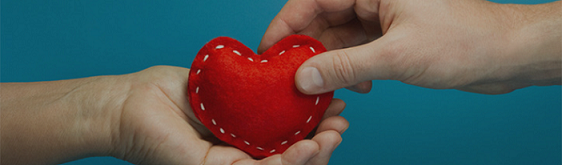
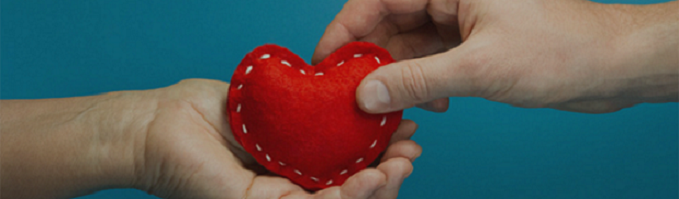
'Harem'

diff --git a/MainPageP.html b/MainPageP.html
@@ -21,16 +21,16 @@
         <img src="imgLogo2.png">
         <ul class="navbar-nav ml-auto">
           <li class="nav-item ">
-            <a class="nav-link text-muted" href="#menu">Home</a>
+            <a class="nav-link text-white" href="#menu"><h5>Home</h5></a>
           </li>
           <li class="nav-item  ">
-            <a class="nav-link text-muted" href="#topico1">Doação</a>
+            <a class="nav-link text-white" href="#topico1"><h5>Doações</h5></a>
           </li>
           <li class="nav-item  ">
-            <a class="nav-link text-muted" href="#">|</a>
+            <a class="nav-link text-white" href="#"><h5>|</h5></a>
           </li>
           <li class="nav-item">
-            <a class="nav-link text-muted" href="MainPageSP.html">Logout</a>
+            <a class="nav-link text-white" href="/login"><h5>Login</h5></a>
           </li>
         </ul>
     
@@ -79,7 +79,7 @@
   </div> 
 
   <!--fim do slide-->
-  <br><br><br>
+  <br><br><br><br><br> <br>
 
   <!--menu-->
   <!--nome do menu-->
@@ -144,9 +144,9 @@
 
       <div class="container-fluid text-center" >
         <h5>Pedro Henrique</h5>
-        <h7>Seu perfil é importante para nós</h7><br>
-        <h7>matenha ele atualizado.</h7><br>
-        <h7>Você pode fazer a diferença!</h7><br>
+        <h6>Seu perfil é importante para nós<br>
+        matenha ele atualizado.<br>
+        Você pode fazer a diferença!</h6><br>
       </div>
 
     </div>
@@ -154,9 +154,9 @@
     <div class="col">
       
       <div class="container-fluid text-center" >
-        <h7>Mais de 35 mil pessoas em todo o Brasil estão na fila para transplante de órgãos.
-        </h7><br><h7>Além disso, 23,4% das pessoas não confia no sistema de saúde ,mesmo ele tendo os preparos
-        necessários para realizar tal ação.</h7><br>
+        <h6>Mais de 35 mil pessoas em todo o Brasil estão na <br>fila para transplante de órgãos.
+        Além disso, 23,4% das pessoas não confia no sistema de<br> saúde, mesmo ele tendo os preparos<br>
+        necessários para realizar tal ação.</h6><br>
        
       </div>
 
@@ -165,9 +165,9 @@
     <div class="col">
       
       <div class="container-fluid text-center" >
-        <h7>Já pensou quão bom seria se você colaborasse para salvar cerca de 12 vidas a cada ano?
-          É muito provável que a sensação de dever cumprido faria ainda mais parte da sua rotina. 
-          E, sabe? Você tem essa chance doando sangue!</h7><br>
+        <h6>Já pensou quão bom seria se você colaborasse para <br>salvar cerca de 12 vidas a cada ano?
+          <br>É muito provável que a sensação de dever cumprido<br>  faria ainda mais parte da sua rotina.<br>
+          E, sabe? Você tem essa chance doando sangue!</h6><br>
       </div>
 
     </div>
@@ -181,16 +181,12 @@
   <!--botao-->
   <br><br>
   <div class="row">
-    <div class="col">
-
-      
-
-    </div>
+    <div class="col"></div>
     
     <div class="col">
       
       <div class="container-fluid text-center" >
-        <a href="#topico1" class="btn text-light" role="button">Quero Doar!</a>  
+        <a href="#topico1" class="btn text-light " role="button">Quero Doar!</a>  
       </div>
 
     </div>
@@ -198,7 +194,7 @@
     <div class="col">
       
       <div class="container-fluid text-center" >
-        <a href="#topico2" class="btn text-light" role="button">Quero Doar!</a>
+        <a href="#topico2" class="btn text-light " role="button">Quero Doar!</a>
       </div>
 
     </div>
@@ -212,13 +208,13 @@
   <!--fim do menu-->
 
   <!--Topico1-->
-  <br><br><br><br><br>
+  <br><br><br><br><br><br><br><br><br><br>
     
 
   <!--marcador-->
     <div class="row">
       <div class="col-sm-3" id="topico1">
-        <div class="container p-2 my-3 border text-right"><h4 class="text-light">Doação de órgãos</h4></div>
+        <div class="container p-2 my-3 border text-right"><h2 class="text-light">Doação de órgãos</h2></div>
       </div>
       <div class="col">
       </div>
@@ -234,8 +230,10 @@
       <div class="container-fluid text-center">
 
         <p>
+          <h6>
           Doação de órgãos e tecidos consiste na remoção dos mesmos do corpo de uma pessoa que recentemente morreu (doador cadáver) ou de um doador voluntário (doador vivo), com o propósito de transplantá-lo ou fazer um enxerto em outras pessoas vivas. Os órgãos e tecidos são removidos com procedimentos similares a uma cirurgia, e todas as incisões (cortes) são fechadas após a conclusão da cirurgia. Estes procedimentos são realizados para que a pessoa em seu funeral não seja reconhecida como uma doadora por apresentar deformações e cortes visíveis. Pessoas de todas as idades podem ser doadores de órgãos e tecidos.
           No mundo inteiro há uma grande falta de doadores e isso faz com que surja grandes listas de espera. Muitos pacientes que esperam um coração, um fígado ou um pulmão morrem, pois não há nenhum órgão à disposição.
+          </h6>
         </p>
 
       </div>
@@ -278,7 +276,7 @@
     <div class="col"></div>
     <div class="col-sm-3">
       <div class="container-fluid text-center">
-        <button type="button" class="btn btn-success text-light btn-block">Quero Doar </button>
+        <button type="button" name="botao1" id="botao1" class="btn btn-success text-light btn-block">Quero Doar </button>
       </div>
     </div>
 
@@ -297,7 +295,7 @@
   <!--marcador-->
     <div class="row">
       <div class="col-sm-3" id="topico2">
-        <div class="container p-2 my-3 border text-right"><h4 class="text-light">Doação de sangue</h4></div>
+        <div class="container p-2 my-3 border text-right"><h2 class="text-light">Doação de sangue</h2></div>
       </div>
       <div class="col">
       </div>
@@ -312,10 +310,10 @@
 
       <div class="container-fluid text-center">
 
-        <p>O sangue ainda não pode ser produzido artificialmente. Por isso, é preciso contar com a solidariedade da população para manter os estoques cheios e a qualidade adequada para doações e tratamento de doenças.
+        <p><h6>O sangue ainda não pode ser produzido artificialmente. Por isso, é preciso contar com a solidariedade da população para manter os estoques cheios e a qualidade adequada para doações e tratamento de doenças.
           Diversos pacientes necessitam de doação de sangue, desde pessoas submetidas a cirurgias cardíacas, transplantes de rins, de fígado e de medula óssea até quem se submete à quimioterapia, por exemplo.
           O sangue coletado durante uma doação é denominado de sangue total e é submetido a um processo de centrifugação, que separa seus principais componentes para uso terapêutico: hemácias, plaquetas e plasma. 
-          Cada um destes componentes é utilizado para tratamentos específicos. A Lei 10.205 de 21 de março de 2001 impede que o sangue e quaisquer de seus componentes e derivados sejam comercializados.</p>
+          Cada um destes componentes é utilizado para tratamentos específicos. A Lei 10.205 de 21 de março de 2001 impede que o sangue e quaisquer de seus componentes e derivados sejam comercializados.</h6></p>
 
       </div>
 
@@ -357,7 +355,7 @@
     <div class="col"></div>
     <div class="col-sm-3">
       <div class="container-fluid text-center">
-        <button type="button" class="btn btn-danger text-light btn-block">Quero Doar </button>
+        <button type="button" name="botao2" id="botao2" class="btn btn-danger text-light btn-block">Quero Doar </button>
       </div>
     </div>
 

diff --git a/MainPageSP.html b/MainPageSP.html
@@ -21,16 +21,16 @@
         <img src="imgLogo2.png">
         <ul class="navbar-nav ml-auto">
           <li class="nav-item ">
-            <a class="nav-link text-muted" href="#menu">Home</a>
+            <a class="nav-link text-white" href="#menu"><h5>Home</h5></a>
           </li>
           <li class="nav-item  ">
-            <a class="nav-link text-muted" href="#topico1">Doação</a>
+            <a class="nav-link text-white" href="#topico1"><h5>Doações</h5></a>
           </li>
           <li class="nav-item  ">
-            <a class="nav-link text-muted" href="#">|</a>
+            <a class="nav-link text-white" href="#"><h5>|</h5></a>
           </li>
           <li class="nav-item">
-            <a class="nav-link text-muted" href="Login.html">Login</a>
+            <a class="nav-link text-white" href="/login"><h5>Login</h5></a>
           </li>
         </ul>
     
@@ -138,24 +138,24 @@
   
 
   <!--texto do menu-->
-
+  <br>
   <div class="row">
     <div class="col">
 
       <div class="container-fluid text-center" >
-        <h7>Oh não você não esta logada perfil! </h7><br>
-        <h7>Não se preocupe podemos resolver isso.</h7><br>
-        <h7>Caso você tenha conta <a href="Login.html">logue</a>,<br>se não,<a href="Registro.html">resgistre-se</a>!</h7><br>
+        <h6>Oh não você não esta logada perfil!<br>Não se preocupe podemos resolver isso.<br>
+        Caso você tenha conta <a href="/login">logue</a>,<br>se não,<a href="/register">resgistre-se</a>!</h6><br>
       </div>
 
     </div>
     
+    
     <div class="col">
       
       <div class="container-fluid text-center" >
-        <h7>Mais de 35 mil pessoas em todo o Brasil estão na fila para transplante de órgãos.
-        </h7><br><h7>Além disso, 23,4% das pessoas não confia no sistema de saúde ,mesmo ele tendo os preparos
-        necessários para realizar tal ação.</h7><br>
+        <h6>Mais de 35 mil pessoas em todo o Brasil estão na <br>fila para transplante de órgãos.
+        <br>Além disso, 23,4% das pessoas não confia no sistema de<br> saúde, mesmo ele tendo os preparos<br>
+        necessários para realizar tal ação.</h6><br>
        
       </div>
 
@@ -164,9 +164,9 @@
     <div class="col">
       
       <div class="container-fluid text-center" >
-        <h7>Já pensou quão bom seria se você colaborasse para salvar cerca de 12 vidas a cada ano?
-          É muito provável que a sensação de dever cumprido faria ainda mais parte da sua rotina. 
-          E, sabe? Você tem essa chance doando sangue!</h7><br>
+        <h6>Já pensou quão bom seria se você colaborasse para <br>salvar cerca de 12 vidas a cada ano?
+          <br>É muito provável que a sensação de dever cumprido<br>  faria ainda mais parte da sua rotina.<br>
+          E, sabe? Você tem essa chance doando sangue!</h6><br>
       </div>
 
     </div>
@@ -178,7 +178,7 @@
   <!--fim do texto do menu-->
 
   <!--botao-->
-  <br><br>
+  <br>
   <div class="row">
     <div class="col">
 
@@ -213,13 +213,13 @@
   <!--fim do menu-->
 
   <!--Topico1-->
-  <br><br><br><br><br>
+  <br><br><br><br><br><br><br><br><br><br><br>
     
 
   <!--marcador-->
     <div class="row">
       <div class="col-sm-3" id="topico1">
-        <div class="container p-2 my-3 border text-right"><h4 class="text-light">Doação de órgãos</h4></div>
+        <div class="container p-2 my-3 border text-right"><h3 class="text-light">Doação de órgãos</h3></div>
       </div>
       <div class="col">
       </div>
@@ -234,9 +234,10 @@
 
       <div class="container-fluid text-center">
 
-        <p>
+        <p><h6>
           Doação de órgãos e tecidos consiste na remoção dos mesmos do corpo de uma pessoa que recentemente morreu (doador cadáver) ou de um doador voluntário (doador vivo), com o propósito de transplantá-lo ou fazer um enxerto em outras pessoas vivas. Os órgãos e tecidos são removidos com procedimentos similares a uma cirurgia, e todas as incisões (cortes) são fechadas após a conclusão da cirurgia. Estes procedimentos são realizados para que a pessoa em seu funeral não seja reconhecida como uma doadora por apresentar deformações e cortes visíveis. Pessoas de todas as idades podem ser doadores de órgãos e tecidos.
           No mundo inteiro há uma grande falta de doadores e isso faz com que surja grandes listas de espera. Muitos pacientes que esperam um coração, um fígado ou um pulmão morrem, pois não há nenhum órgão à disposição.
+          </h6>
         </p>
 
       </div>
@@ -298,7 +299,7 @@
   <!--marcador-->
     <div class="row">
       <div class="col-sm-3" id="topico2">
-        <div class="container p-2 my-3 border text-right"><h4 class="text-light">Doação de sangue</h4></div>
+        <div class="container p-2 my-3 border text-right"><h3 class="text-light">Doação de sangue</h3></div>
       </div>
       <div class="col">
       </div>
@@ -313,10 +314,10 @@
 
       <div class="container-fluid text-center">
 
-        <p>O sangue ainda não pode ser produzido artificialmente. Por isso, é preciso contar com a solidariedade da população para manter os estoques cheios e a qualidade adequada para doações e tratamento de doenças.
+        <p><h6>O sangue ainda não pode ser produzido artificialmente. Por isso, é preciso contar com a solidariedade da população para manter os estoques cheios e a qualidade adequada para doações e tratamento de doenças.
           Diversos pacientes necessitam de doação de sangue, desde pessoas submetidas a cirurgias cardíacas, transplantes de rins, de fígado e de medula óssea até quem se submete à quimioterapia, por exemplo.
           O sangue coletado durante uma doação é denominado de sangue total e é submetido a um processo de centrifugação, que separa seus principais componentes para uso terapêutico: hemácias, plaquetas e plasma. 
-          Cada um destes componentes é utilizado para tratamentos específicos. A Lei 10.205 de 21 de março de 2001 impede que o sangue e quaisquer de seus componentes e derivados sejam comercializados.</p>
+          Cada um destes componentes é utilizado para tratamentos específicos. A Lei 10.205 de 21 de março de 2001 impede que o sangue e quaisquer de seus componentes e derivados sejam comercializados.</h6></p>
 
       </div>
 
@@ -366,7 +367,10 @@
   </div>
 
 <!--Topico2-->
-  
+<br> <br> <br>
+<div class="container">
+  <div class="row"></div> 
+</div>
 
 
 </body>

diff --git a/Login.html b/Login.html
@@ -4,6 +4,11 @@
   <title>Formulário de Login e Registro com HTML5 e CSS3</title>
   <meta name="viewport" content="width=device-width, initial-scale=1.0"> 
   <link rel="stylesheet" type="text/css" href="Lstyle.css" />
+  <link rel="stylesheet" href="https://maxcdn.bootstrapcdn.com/bootstrap/4.0.0/css/bootstrap.min.css" integrity="sha384-Gn5384xqQ1aoWXA+058RXPxPg6fy4IWvTNh0E263XmFcJlSAwiGgFAW/dAiS6JXm" crossorigin="anonymous">
+  <script src="https://code.jquery.com/jquery-3.2.1.slim.min.js" integrity="sha384-KJ3o2DKtIkvYIK3UENzmM7KCkRr/rE9/Qpg6aAZGJwFDMVNA/GpGFF93hXpG5KkN" crossorigin="anonymous"></script>
+  <script src="https://cdnjs.cloudflare.com/ajax/libs/popper.js/1.12.9/umd/popper.min.js" integrity="sha384-ApNbgh9B+Y1QKtv3Rn7W3mgPxhU9K/ScQsAP7hUibX39j7fakFPskvXusvfa0b4Q" crossorigin="anonymous"></script>
+  <script src="https://maxcdn.bootstrapcdn.com/bootstrap/4.0.0/js/bootstrap.min.js" integrity="sha384-JZR6Spejh4U02d8jOt6vLEHfe/JQGiRRSQQxSfFWpi1MquVdAyjUar5+76PVCmYl" crossorigin="anonymous"></script>
+
   
 </head>
 <body>
@@ -14,12 +19,12 @@
     <div class="content">      
       <center>
         <!--FORMULÁRIO DE LOGIN-->
-      <div id="login">
+      <div id="login" class="login">
         <form method="POST" action="/login"> 
           <h1>Login</h1> 
           <p> 
-            <label for="email">E-mail</label><br>
-            <input id="login" name="login" required type="email" placeholder="ex. exemplo@geta.com"/>
+            <label for="password">Email</label><br>
+            <input id="login" name="login" required type="email" placeholder="ex. senha" /> 
           </p>
            
           
@@ -29,7 +34,7 @@
           </p>
            
           <p> 
-            <input type="button"" value="Entrar" onclick="logar()"/> 
+            <input type="submit" value="Entrar" /> 
           </p>
            
           <p class="link">

diff --git a/main.css b/main.css
@@ -9,7 +9,7 @@ nav{
 
 .carousel-inner img {
     width: 100%;
-    height: 220px;
+    height: 320px;
 }
 
 

diff --git a/Lstyle.css b/Lstyle.css
@@ -52,7 +52,7 @@ padding-bottom: 30px;
 
 
 
-#login{
+.login{
 position: center;
 top: 0px;
 width: 75%;   
